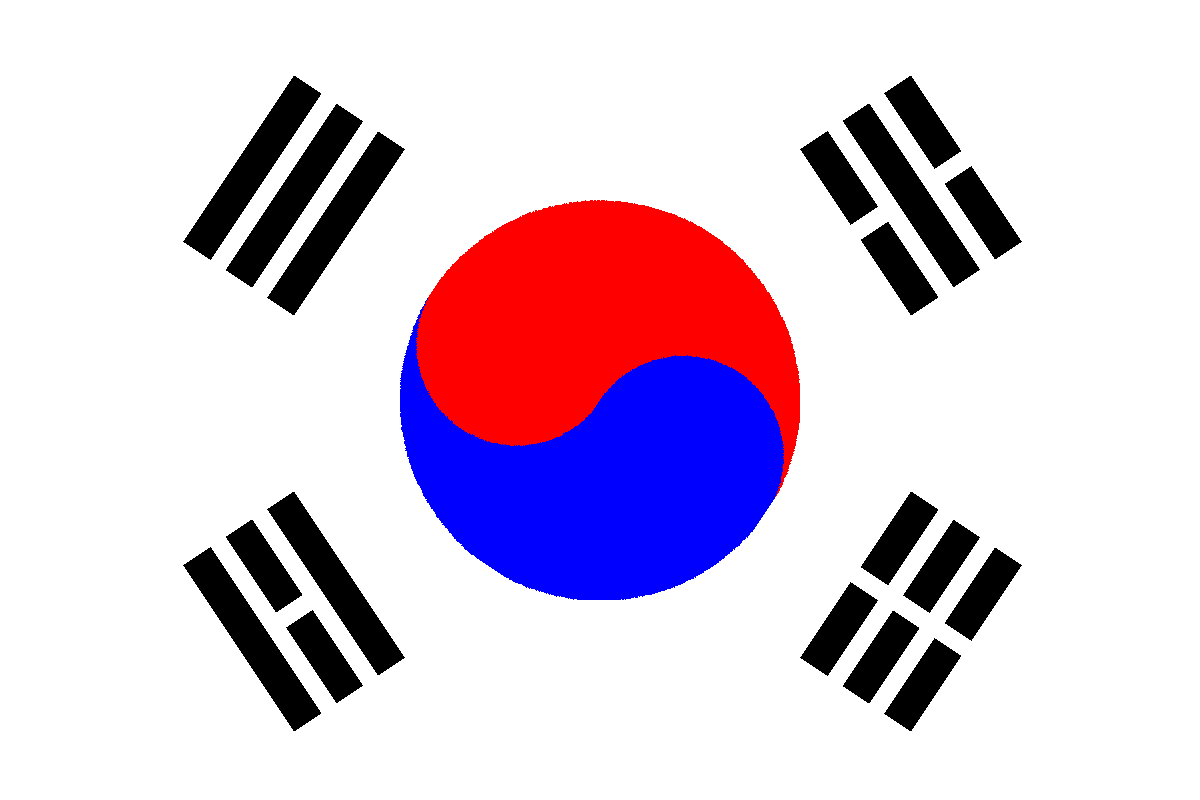
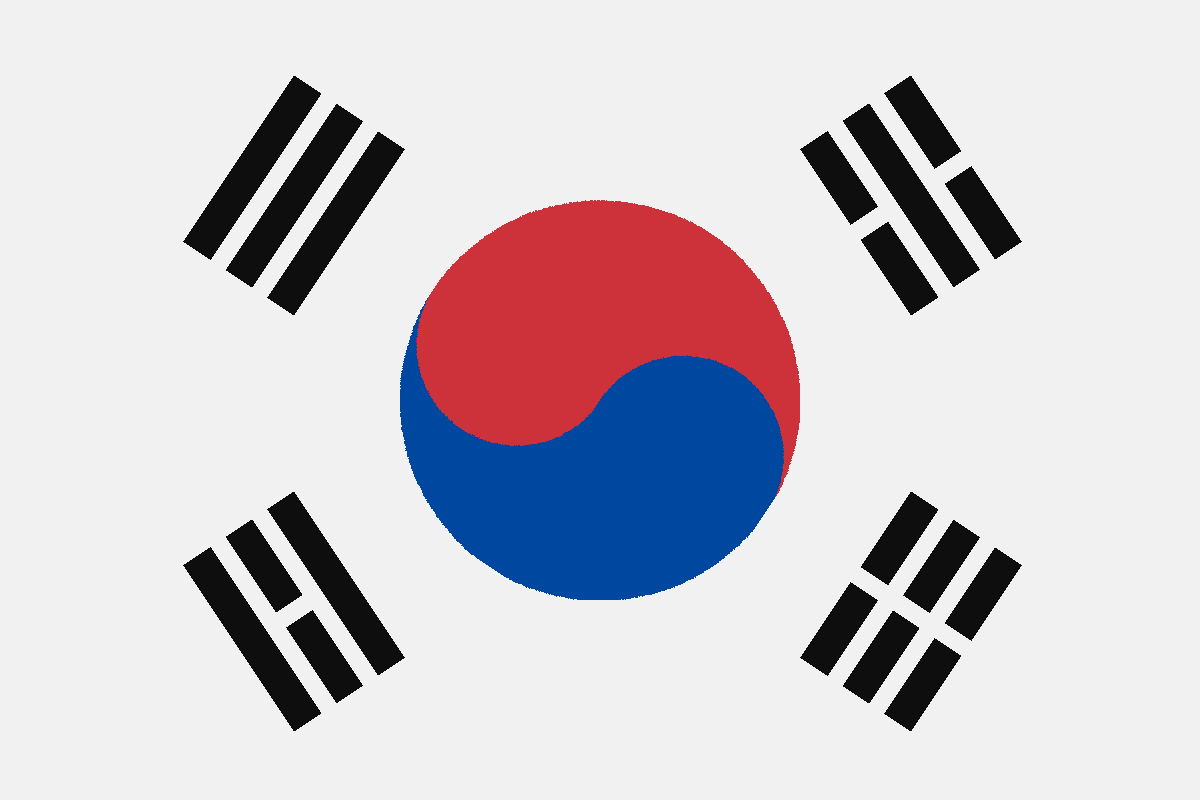
change colors

Changed region(s): [[0.3083, 0.25, 0.6783, 0.75]]

diff --git a/Taegeukgi.py b/Taegeukgi.py
@@ -3,69 +3,69 @@ from PIL import Image, ImageDraw
 class Taegeukgi():
     def draw(self, w=1200, h=800):
         # White background: Brightness, purity, and peace
-        img = Image.new('RGB', (w, h), color='white')
+        img = Image.new('RGB', (w, h), color=(241, 241, 241))
 
         # Taegeuk shape = Yin + Yang
-        taegeuk = Image.new('RGB', (h // 2, h // 2), color='white')
+        taegeuk = Image.new('RGB', (h // 2, h // 2), color=(241, 241, 241))
         draw = ImageDraw.Draw(taegeuk)
 
-        draw.pieslice((0, 0, h // 2, h // 2), start=180, end=360, fill='red')
-        draw.pieslice((0, 0, h // 2, h // 2), start=0, end=180, fill='blue')
+        draw.pieslice((0, 0, h // 2, h // 2), start=180, end=360, fill=(205, 49, 58))
+        draw.pieslice((0, 0, h // 2, h // 2), start=0, end=180, fill=(0, 71, 160))
 
-        draw.ellipse((0, h // 8, h // 4, h * 3 // 8), fill='red')
-        draw.ellipse((h // 4, h // 8, h // 2, h * 3 // 8), fill='blue')
+        draw.ellipse((0, h // 8, h // 4, h * 3 // 8), fill=(205, 49, 58))
+        draw.ellipse((h // 4, h // 8, h // 2, h * 3 // 8), fill=(0, 71, 160))
 
-        taegeuk = taegeuk.rotate(-33.69, fillcolor='white')
+        taegeuk = taegeuk.rotate(-33.69, fillcolor=(241, 241, 241))
 
         img.paste(taegeuk, (h // 2, h // 4))
 
         # Heaven 건
-        sky = Image.new('RGB', (h // 4, h // 6), color='black')
+        sky = Image.new('RGB', (h // 4, h // 6), color=(14, 14, 14))
         draw = ImageDraw.Draw(sky)
 
-        draw.rectangle((0, h * 2 // 48, h // 4, h * 3 // 48), fill='white')
-        draw.rectangle((0, h * 5 // 48, h // 4, h * 6 // 48), fill='white')
+        draw.rectangle((0, h * 2 // 48, h // 4, h * 3 // 48), fill=(241, 241, 241))
+        draw.rectangle((0, h * 5 // 48, h // 4, h * 6 // 48), fill=(241, 241, 241))
 
-        sky = sky.rotate(90 - 33.69, expand=True, fillcolor='white')
+        sky = sky.rotate(90 - 33.69, expand=True, fillcolor=(241, 241, 241))
 
         img.paste(sky, (h * 22 // 96, h * 9 // 96))
 
         # Earth 곤
-        earth = Image.new('RGB', (h // 4, h // 6), color='black')
+        earth = Image.new('RGB', (h // 4, h // 6), color=(14, 14, 14))
         draw = ImageDraw.Draw(earth)
 
-        draw.rectangle((0, h * 2 // 48, h // 4, h * 3 // 48), fill='white')
-        draw.rectangle((0, h * 5 // 48, h // 4, h * 6 // 48), fill='white')
-        draw.rectangle((h * 11 // 96, 0, h * 13 // 96, h * 2 // 48), fill='white') # 1
-        draw.rectangle((h * 11 // 96, h * 3 // 48, h * 13 // 96, h * 5 // 48), fill='white') # 2
-        draw.rectangle((h * 11 // 96, h * 6 // 48, h * 13 // 96, h * 8 // 48), fill='white') # 3
+        draw.rectangle((0, h * 2 // 48, h // 4, h * 3 // 48), fill=(241, 241, 241))
+        draw.rectangle((0, h * 5 // 48, h // 4, h * 6 // 48), fill=(241, 241, 241))
+        draw.rectangle((h * 11 // 96, 0, h * 13 // 96, h * 2 // 48), fill=(241, 241, 241)) # 1
+        draw.rectangle((h * 11 // 96, h * 3 // 48, h * 13 // 96, h * 5 // 48), fill=(241, 241, 241)) # 2
+        draw.rectangle((h * 11 // 96, h * 6 // 48, h * 13 // 96, h * 8 // 48), fill=(241, 241, 241)) # 3
 
-        earth = earth.rotate(90 - 33.69, expand=True, fillcolor='white')
+        earth = earth.rotate(90 - 33.69, expand=True, fillcolor=(241, 241, 241))
 
         img.paste(earth, (h * 96 // 96, h * 59 // 96))
 
         # Water 감
-        water = Image.new('RGB', (h // 4, h // 6), color='black')
+        water = Image.new('RGB', (h // 4, h // 6), color=(14, 14, 14))
         draw = ImageDraw.Draw(water)
 
-        draw.rectangle((0, h * 2 // 48, h // 4, h * 3 // 48), fill='white')
-        draw.rectangle((0, h * 5 // 48, h // 4, h * 6 // 48), fill='white')
-        draw.rectangle((h * 11 // 96, 0, h * 13 // 96, h * 2 // 48), fill='white') # 1
-        draw.rectangle((h * 11 // 96, h * 6 // 48, h * 13 // 96, h * 8 // 48), fill='white') # 3
+        draw.rectangle((0, h * 2 // 48, h // 4, h * 3 // 48), fill=(241, 241, 241))
+        draw.rectangle((0, h * 5 // 48, h // 4, h * 6 // 48), fill=(241, 241, 241))
+        draw.rectangle((h * 11 // 96, 0, h * 13 // 96, h * 2 // 48), fill=(241, 241, 241)) # 1
+        draw.rectangle((h * 11 // 96, h * 6 // 48, h * 13 // 96, h * 8 // 48), fill=(241, 241, 241)) # 3
 
-        water = water.rotate(90 + 33.69, expand=True, fillcolor='white')
+        water = water.rotate(90 + 33.69, expand=True, fillcolor=(241, 241, 241))
 
         img.paste(water, (h * 96 // 96, h * 9 // 96))
 
         # Fire 이
-        fire = Image.new('RGB', (h // 4, h // 6), color='black')
+        fire = Image.new('RGB', (h // 4, h // 6), color=(14, 14, 14))
         draw = ImageDraw.Draw(fire)
 
-        draw.rectangle((0, h * 2 // 48, h // 4, h * 3 // 48), fill='white')
-        draw.rectangle((0, h * 5 // 48, h // 4, h * 6 // 48), fill='white')
-        draw.rectangle((h * 11 // 96, h * 3 // 48, h * 13 // 96, h * 5 // 48), fill='white') # 2
+        draw.rectangle((0, h * 2 // 48, h // 4, h * 3 // 48), fill=(241, 241, 241))
+        draw.rectangle((0, h * 5 // 48, h // 4, h * 6 // 48), fill=(241, 241, 241))
+        draw.rectangle((h * 11 // 96, h * 3 // 48, h * 13 // 96, h * 5 // 48), fill=(241, 241, 241)) # 2
 
-        fire = fire.rotate(90 + 33.69, expand=True, fillcolor='white')
+        fire = fire.rotate(90 + 33.69, expand=True, fillcolor=(241, 241, 241))
 
         img.paste(fire, (h * 22 // 96, h * 59 // 96))
 
